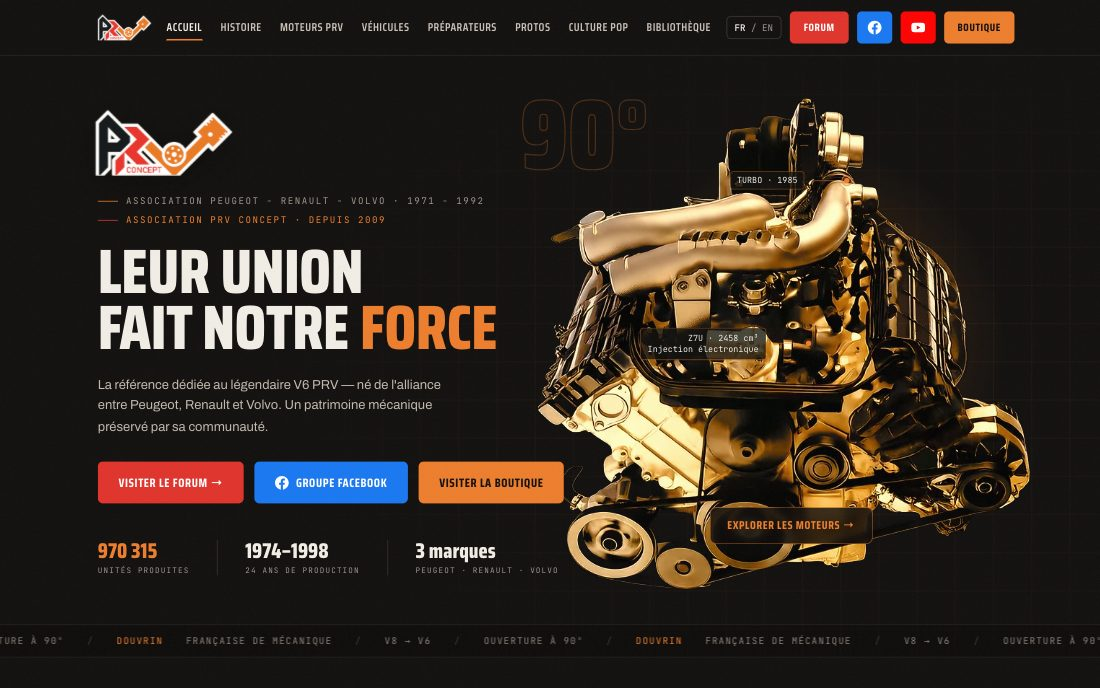
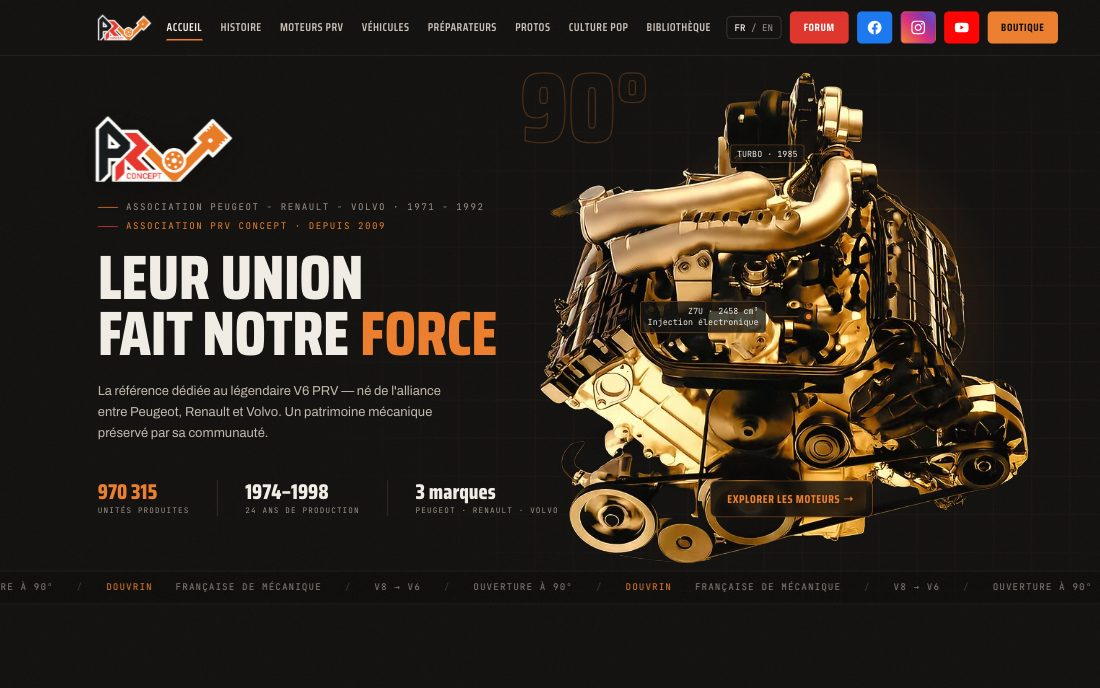
feat(services): apercu 3D interactif sur la page Services + vignette PRV maj
- Services (FR+EN) : nouvelle section #creations en bas de page — le modele
  wireframe Renault R25 interactif (model-viewer, loading=lazy) + CTA
  "Decouvrir la Conception 3D" / "Explore 3D Design" vers la page dediee
  (conservee). Script model-viewer ajoute, meta description enrichie (3D).
  Rendu verifie en WebGL reel (ANGLE/Metal) : voiture OK, 0 overflow (375/1440).
- Realisations : vignette PRV Concept rafraichie (public/prv-concept.jpg) —
  le site a evolue (nav + Instagram, hero recompose). Capturee via
  scripts/capture-realisation.mjs.
- Docs : llms.txt (Services mentionne le demonstrateur 3D) + skill a jour.

diff --git a/deploy/services.html b/deploy/services.html
@@ -4,7 +4,7 @@
 <meta charset="utf-8" />
 <meta name="viewport" content="width=device-width, initial-scale=1" />
 <title>Services — conseil technique & création web IA | NSY</title>
-<meta name="description" content="Deux offres NSY : conseil technique senior pour la finance et l'assurance, et création de sites web propulsés par l'IA. Méthode, domaines couverts, valeurs." />
+<meta name="description" content="Deux offres NSY : conseil technique senior pour la finance et l'assurance, et création de sites web propulsés par l'IA — avec 3D temps réel optimisée pour le web. Méthode, domaines couverts, valeurs." />
 <meta name="robots" content="index, follow" />
 <link rel="canonical" href="https://www.nsy.fr/services.html" />
 <link rel="alternate" hreflang="fr" href="https://www.nsy.fr/services.html" />
@@ -16,7 +16,7 @@
 <meta property="og:locale" content="fr_FR" />
 <meta property="og:url" content="https://www.nsy.fr/services.html" />
 <meta property="og:title" content="Services — conseil technique & création web IA | NSY" />
-<meta property="og:description" content="Deux offres NSY : conseil technique senior pour la finance et l'assurance, et création de sites web propulsés par l'IA. Méthode, domaines couverts, valeurs." />
+<meta property="og:description" content="Deux offres NSY : conseil technique senior pour la finance et l'assurance, et création de sites web propulsés par l'IA — avec 3D temps réel optimisée pour le web. Méthode, domaines couverts, valeurs." />
 <meta property="og:image" content="https://www.nsy.fr/public/nsy-og.jpg" />
 <meta property="og:image:width" content="1200" />
 <meta property="og:image:height" content="630" />
@@ -24,7 +24,7 @@
 
 <meta name="twitter:card" content="summary_large_image" />
 <meta name="twitter:title" content="Services — conseil technique & création web IA | NSY" />
-<meta name="twitter:description" content="Deux offres NSY : conseil technique senior pour la finance et l'assurance, et création de sites web propulsés par l'IA. Méthode, domaines couverts, valeurs." />
+<meta name="twitter:description" content="Deux offres NSY : conseil technique senior pour la finance et l'assurance, et création de sites web propulsés par l'IA — avec 3D temps réel optimisée pour le web. Méthode, domaines couverts, valeurs." />
 <meta name="twitter:image" content="https://www.nsy.fr/public/nsy-og.jpg" />
 
 <link rel="icon" type="image/png" sizes="32x32" href="public/cropped-NSY-logo-32x32.png" />
@@ -34,6 +34,7 @@
 <link rel="preconnect" href="https://fonts.gstatic.com" crossorigin />
 <link href="https://fonts.googleapis.com/css2?family=Space+Grotesk:wght@400;500;600;700&family=Manrope:wght@300;400;500;600;700&family=JetBrains+Mono:wght@400;500;700&display=swap" rel="stylesheet" />
 <link rel="stylesheet" href="css/style.css" />
+<script type="module" src="https://unpkg.com/@google/model-viewer@4.2.0/dist/model-viewer.min.js"></script>
 
 <script type="application/ld+json">
 {
@@ -266,6 +267,62 @@
         <h3 style="font-size: 22px; margin-top: 10px;">Engagement</h3>
         <p style="margin-top: 10px; font-size: 14.5px;">Présence sur site ou hybride à Paris, La Défense ou en région.</p>
       </article>
+    </div>
+  </div>
+</section>
+<section class="block" id="creations">
+  <div class="container">
+    <div class="eyebrow-row">
+      <span class="block-eyebrow">Conception 3D</span>
+      <span class="line"></span>
+      <span class="mono">04 / Savoir-faire web</span>
+    </div>
+    <div class="section-head">
+      <h2>La 3D temps réel,<br /><span class="hero-cyan">au service de vos sites web.</span></h2>
+      <p class="lede">
+        La création web NSY intègre aussi de la 3D optimisée pour le navigateur — légère, interactive, esthétique cyber. Un exemple ci-dessous : un modèle en maillage, en rotation temps réel. Cliquez-glissez pour le faire pivoter.
+      </p>
+    </div>
+
+    <div class="hobbie-showcase" style="max-width: 720px; margin: 48px auto 0;">
+      <div class="model-stage" oncontextmenu="return false">
+        <model-viewer
+          class="hobbie-model"
+          id="renault-viewer"
+          src="public/renault-wireframe.glb"
+          alt="Renault R25 Baccara 1992 — modèle 3D en maillage interactif"
+          auto-rotate
+          auto-rotate-delay="2000"
+          rotation-per-second="-20deg"
+          camera-controls
+          interaction-prompt="none"
+          disable-zoom
+          disable-pan
+          shadow-intensity="0"
+          environment-image="neutral"
+          tone-mapping="neutral"
+          exposure="1.0"
+          bounds="tight"
+          camera-orbit="-30deg 75deg auto"
+          field-of-view="auto"
+          loading="lazy"
+          reveal="auto"
+        ></model-viewer>
+        <button class="model-expand" type="button"
+                data-label-open="Agrandir le modèle" data-label-close="Réduire le modèle"
+                aria-label="Agrandir le modèle" title="Agrandir">
+          <svg class="icon-expand" viewBox="0 0 24 24" fill="none" stroke="currentColor" stroke-width="2" stroke-linecap="round" stroke-linejoin="round" aria-hidden="true"><path d="M8 3H5a2 2 0 0 0-2 2v3M21 8V5a2 2 0 0 0-2-2h-3M16 21h3a2 2 0 0 0 2-2v-3M3 16v3a2 2 0 0 0 2 2h3"/></svg>
+          <svg class="icon-collapse" viewBox="0 0 24 24" fill="none" stroke="currentColor" stroke-width="2" stroke-linecap="round" stroke-linejoin="round" aria-hidden="true"><path d="M8 3v3a2 2 0 0 1-2 2H3M21 8h-3a2 2 0 0 1-2-2V3M16 21v-3a2 2 0 0 1 2-2h3M3 16h3a2 2 0 0 1 2 2v3"/></svg>
+        </button>
+        <div class="model-hint mono">↻ Faites pivoter</div>
+      </div>
+      <div class="hobbie-caption">
+        <span class="mono">© NSY · propriété intellectuelle · reproduction interdite</span>
+      </div>
+    </div>
+
+    <div style="text-align: center; margin-top: 32px;">
+      <a class="btn btn-ghost" href="conception-3d.html">Découvrir la Conception 3D <span class="arrow">→</span></a>
     </div>
   </div>
 </section>

diff --git a/services.html b/services.html
@@ -4,7 +4,7 @@
 <meta charset="utf-8" />
 <meta name="viewport" content="width=device-width, initial-scale=1" />
 <title>Services — conseil technique & création web IA | NSY</title>
-<meta name="description" content="Deux offres NSY : conseil technique senior pour la finance et l'assurance, et création de sites web propulsés par l'IA. Méthode, domaines couverts, valeurs." />
+<meta name="description" content="Deux offres NSY : conseil technique senior pour la finance et l'assurance, et création de sites web propulsés par l'IA — avec 3D temps réel optimisée pour le web. Méthode, domaines couverts, valeurs." />
 <meta name="robots" content="index, follow" />
 <link rel="canonical" href="https://www.nsy.fr/services.html" />
 <link rel="alternate" hreflang="fr" href="https://www.nsy.fr/services.html" />
@@ -16,7 +16,7 @@
 <meta property="og:locale" content="fr_FR" />
 <meta property="og:url" content="https://www.nsy.fr/services.html" />
 <meta property="og:title" content="Services — conseil technique & création web IA | NSY" />
-<meta property="og:description" content="Deux offres NSY : conseil technique senior pour la finance et l'assurance, et création de sites web propulsés par l'IA. Méthode, domaines couverts, valeurs." />
+<meta property="og:description" content="Deux offres NSY : conseil technique senior pour la finance et l'assurance, et création de sites web propulsés par l'IA — avec 3D temps réel optimisée pour le web. Méthode, domaines couverts, valeurs." />
 <meta property="og:image" content="https://www.nsy.fr/public/nsy-og.jpg" />
 <meta property="og:image:width" content="1200" />
 <meta property="og:image:height" content="630" />
@@ -24,7 +24,7 @@
 
 <meta name="twitter:card" content="summary_large_image" />
 <meta name="twitter:title" content="Services — conseil technique & création web IA | NSY" />
-<meta name="twitter:description" content="Deux offres NSY : conseil technique senior pour la finance et l'assurance, et création de sites web propulsés par l'IA. Méthode, domaines couverts, valeurs." />
+<meta name="twitter:description" content="Deux offres NSY : conseil technique senior pour la finance et l'assurance, et création de sites web propulsés par l'IA — avec 3D temps réel optimisée pour le web. Méthode, domaines couverts, valeurs." />
 <meta name="twitter:image" content="https://www.nsy.fr/public/nsy-og.jpg" />
 
 <link rel="icon" type="image/png" sizes="32x32" href="public/cropped-NSY-logo-32x32.png" />
@@ -34,6 +34,7 @@
 <link rel="preconnect" href="https://fonts.gstatic.com" crossorigin />
 <link href="https://fonts.googleapis.com/css2?family=Space+Grotesk:wght@400;500;600;700&family=Manrope:wght@300;400;500;600;700&family=JetBrains+Mono:wght@400;500;700&display=swap" rel="stylesheet" />
 <link rel="stylesheet" href="css/style.css" />
+<script type="module" src="https://unpkg.com/@google/model-viewer@4.2.0/dist/model-viewer.min.js"></script>
 
 <script type="application/ld+json">
 {
@@ -266,6 +267,62 @@
         <h3 style="font-size: 22px; margin-top: 10px;">Engagement</h3>
         <p style="margin-top: 10px; font-size: 14.5px;">Présence sur site ou hybride à Paris, La Défense ou en région.</p>
       </article>
+    </div>
+  </div>
+</section>
+<section class="block" id="creations">
+  <div class="container">
+    <div class="eyebrow-row">
+      <span class="block-eyebrow">Conception 3D</span>
+      <span class="line"></span>
+      <span class="mono">04 / Savoir-faire web</span>
+    </div>
+    <div class="section-head">
+      <h2>La 3D temps réel,<br /><span class="hero-cyan">au service de vos sites web.</span></h2>
+      <p class="lede">
+        La création web NSY intègre aussi de la 3D optimisée pour le navigateur — légère, interactive, esthétique cyber. Un exemple ci-dessous : un modèle en maillage, en rotation temps réel. Cliquez-glissez pour le faire pivoter.
+      </p>
+    </div>
+
+    <div class="hobbie-showcase" style="max-width: 720px; margin: 48px auto 0;">
+      <div class="model-stage" oncontextmenu="return false">
+        <model-viewer
+          class="hobbie-model"
+          id="renault-viewer"
+          src="public/renault-wireframe.glb"
+          alt="Renault R25 Baccara 1992 — modèle 3D en maillage interactif"
+          auto-rotate
+          auto-rotate-delay="2000"
+          rotation-per-second="-20deg"
+          camera-controls
+          interaction-prompt="none"
+          disable-zoom
+          disable-pan
+          shadow-intensity="0"
+          environment-image="neutral"
+          tone-mapping="neutral"
+          exposure="1.0"
+          bounds="tight"
+          camera-orbit="-30deg 75deg auto"
+          field-of-view="auto"
+          loading="lazy"
+          reveal="auto"
+        ></model-viewer>
+        <button class="model-expand" type="button"
+                data-label-open="Agrandir le modèle" data-label-close="Réduire le modèle"
+                aria-label="Agrandir le modèle" title="Agrandir">
+          <svg class="icon-expand" viewBox="0 0 24 24" fill="none" stroke="currentColor" stroke-width="2" stroke-linecap="round" stroke-linejoin="round" aria-hidden="true"><path d="M8 3H5a2 2 0 0 0-2 2v3M21 8V5a2 2 0 0 0-2-2h-3M16 21h3a2 2 0 0 0 2-2v-3M3 16v3a2 2 0 0 0 2 2h3"/></svg>
+          <svg class="icon-collapse" viewBox="0 0 24 24" fill="none" stroke="currentColor" stroke-width="2" stroke-linecap="round" stroke-linejoin="round" aria-hidden="true"><path d="M8 3v3a2 2 0 0 1-2 2H3M21 8h-3a2 2 0 0 1-2-2V3M16 21v-3a2 2 0 0 1 2-2h3M3 16h3a2 2 0 0 1 2 2v3"/></svg>
+        </button>
+        <div class="model-hint mono">↻ Faites pivoter</div>
+      </div>
+      <div class="hobbie-caption">
+        <span class="mono">© NSY · propriété intellectuelle · reproduction interdite</span>
+      </div>
+    </div>
+
+    <div style="text-align: center; margin-top: 32px;">
+      <a class="btn btn-ghost" href="conception-3d.html">Découvrir la Conception 3D <span class="arrow">→</span></a>
     </div>
   </div>
 </section>

diff --git a/deploy/services-en.html b/deploy/services-en.html
@@ -4,7 +4,7 @@
 <meta charset="utf-8" />
 <meta name="viewport" content="width=device-width, initial-scale=1" />
 <title>Services — technical consulting & AI web creation | NSY</title>
-<meta name="description" content="Two NSY offerings: senior technical consulting for finance & insurance, and AI-powered website creation. Method, domains covered, values." />
+<meta name="description" content="Two NSY offerings: senior technical consulting for finance & insurance, and AI-powered website creation — with real-time 3D optimised for the web. Method, domains covered, values." />
 <meta name="robots" content="index, follow" />
 <link rel="canonical" href="https://www.nsy.fr/services-en.html" />
 <link rel="alternate" hreflang="fr" href="https://www.nsy.fr/services.html" />
@@ -16,7 +16,7 @@
 <meta property="og:locale" content="en_GB" />
 <meta property="og:url" content="https://www.nsy.fr/services-en.html" />
 <meta property="og:title" content="Services — technical consulting & AI web creation | NSY" />
-<meta property="og:description" content="Two NSY offerings: senior technical consulting for finance & insurance, and AI-powered website creation. Method, domains covered, values." />
+<meta property="og:description" content="Two NSY offerings: senior technical consulting for finance & insurance, and AI-powered website creation — with real-time 3D optimised for the web. Method, domains covered, values." />
 <meta property="og:image" content="https://www.nsy.fr/public/nsy-og.jpg" />
 <meta property="og:image:width" content="1200" />
 <meta property="og:image:height" content="630" />
@@ -24,7 +24,7 @@
 
 <meta name="twitter:card" content="summary_large_image" />
 <meta name="twitter:title" content="Services — technical consulting & AI web creation | NSY" />
-<meta name="twitter:description" content="Two NSY offerings: senior technical consulting for finance & insurance, and AI-powered website creation. Method, domains covered, values." />
+<meta name="twitter:description" content="Two NSY offerings: senior technical consulting for finance & insurance, and AI-powered website creation — with real-time 3D optimised for the web. Method, domains covered, values." />
 <meta name="twitter:image" content="https://www.nsy.fr/public/nsy-og.jpg" />
 
 <link rel="icon" type="image/png" sizes="32x32" href="public/cropped-NSY-logo-32x32.png" />
@@ -34,6 +34,7 @@
 <link rel="preconnect" href="https://fonts.gstatic.com" crossorigin />
 <link href="https://fonts.googleapis.com/css2?family=Space+Grotesk:wght@400;500;600;700&family=Manrope:wght@300;400;500;600;700&family=JetBrains+Mono:wght@400;500;700&display=swap" rel="stylesheet" />
 <link rel="stylesheet" href="css/style.css" />
+<script type="module" src="https://unpkg.com/@google/model-viewer@4.2.0/dist/model-viewer.min.js"></script>
 
 <script type="application/ld+json">
 {
@@ -264,6 +265,62 @@
         <h3 style="font-size: 22px; margin-top: 10px;">Commitment</h3>
         <p style="margin-top: 10px; font-size: 14.5px;">On-site or hybrid presence in Paris, La Défense or across regions.</p>
       </article>
+    </div>
+  </div>
+</section>
+<section class="block" id="creations">
+  <div class="container">
+    <div class="eyebrow-row">
+      <span class="block-eyebrow">3D Design</span>
+      <span class="line"></span>
+      <span class="mono">04 / Web craft</span>
+    </div>
+    <div class="section-head">
+      <h2>Real-time 3D,<br /><span class="hero-cyan">in the service of your websites.</span></h2>
+      <p class="lede">
+        NSY web creation also brings in 3D optimised for the browser — lightweight, interactive, cyber aesthetics. One example below: a wireframe model spinning in real time. Click and drag to rotate it.
+      </p>
+    </div>
+
+    <div class="hobbie-showcase" style="max-width: 720px; margin: 48px auto 0;">
+      <div class="model-stage" oncontextmenu="return false">
+        <model-viewer
+          class="hobbie-model"
+          id="renault-viewer"
+          src="public/renault-wireframe.glb"
+          alt="Renault R25 Baccara 1992 — interactive wireframe model"
+          auto-rotate
+          auto-rotate-delay="2000"
+          rotation-per-second="-20deg"
+          camera-controls
+          interaction-prompt="none"
+          disable-zoom
+          disable-pan
+          shadow-intensity="0"
+          environment-image="neutral"
+          tone-mapping="neutral"
+          exposure="1.0"
+          bounds="tight"
+          camera-orbit="-30deg 75deg auto"
+          field-of-view="auto"
+          loading="lazy"
+          reveal="auto"
+        ></model-viewer>
+        <button class="model-expand" type="button"
+                data-label-open="Enlarge the model" data-label-close="Shrink the model"
+                aria-label="Enlarge the model" title="Enlarge">
+          <svg class="icon-expand" viewBox="0 0 24 24" fill="none" stroke="currentColor" stroke-width="2" stroke-linecap="round" stroke-linejoin="round" aria-hidden="true"><path d="M8 3H5a2 2 0 0 0-2 2v3M21 8V5a2 2 0 0 0-2-2h-3M16 21h3a2 2 0 0 0 2-2v-3M3 16v3a2 2 0 0 0 2 2h3"/></svg>
+          <svg class="icon-collapse" viewBox="0 0 24 24" fill="none" stroke="currentColor" stroke-width="2" stroke-linecap="round" stroke-linejoin="round" aria-hidden="true"><path d="M8 3v3a2 2 0 0 1-2 2H3M21 8h-3a2 2 0 0 1-2-2V3M16 21v-3a2 2 0 0 1 2-2h3M3 16h3a2 2 0 0 1 2 2v3"/></svg>
+        </button>
+        <div class="model-hint mono">↻ Drag to rotate</div>
+      </div>
+      <div class="hobbie-caption">
+        <span class="mono">© NSY · intellectual property · reproduction forbidden</span>
+      </div>
+    </div>
+
+    <div style="text-align: center; margin-top: 32px;">
+      <a class="btn btn-ghost" href="3d-design.html">Explore 3D Design <span class="arrow">→</span></a>
     </div>
   </div>
 </section>

diff --git a/services-en.html b/services-en.html
@@ -4,7 +4,7 @@
 <meta charset="utf-8" />
 <meta name="viewport" content="width=device-width, initial-scale=1" />
 <title>Services — technical consulting & AI web creation | NSY</title>
-<meta name="description" content="Two NSY offerings: senior technical consulting for finance & insurance, and AI-powered website creation. Method, domains covered, values." />
+<meta name="description" content="Two NSY offerings: senior technical consulting for finance & insurance, and AI-powered website creation — with real-time 3D optimised for the web. Method, domains covered, values." />
 <meta name="robots" content="index, follow" />
 <link rel="canonical" href="https://www.nsy.fr/services-en.html" />
 <link rel="alternate" hreflang="fr" href="https://www.nsy.fr/services.html" />
@@ -16,7 +16,7 @@
 <meta property="og:locale" content="en_GB" />
 <meta property="og:url" content="https://www.nsy.fr/services-en.html" />
 <meta property="og:title" content="Services — technical consulting & AI web creation | NSY" />
-<meta property="og:description" content="Two NSY offerings: senior technical consulting for finance & insurance, and AI-powered website creation. Method, domains covered, values." />
+<meta property="og:description" content="Two NSY offerings: senior technical consulting for finance & insurance, and AI-powered website creation — with real-time 3D optimised for the web. Method, domains covered, values." />
 <meta property="og:image" content="https://www.nsy.fr/public/nsy-og.jpg" />
 <meta property="og:image:width" content="1200" />
 <meta property="og:image:height" content="630" />
@@ -24,7 +24,7 @@
 
 <meta name="twitter:card" content="summary_large_image" />
 <meta name="twitter:title" content="Services — technical consulting & AI web creation | NSY" />
-<meta name="twitter:description" content="Two NSY offerings: senior technical consulting for finance & insurance, and AI-powered website creation. Method, domains covered, values." />
+<meta name="twitter:description" content="Two NSY offerings: senior technical consulting for finance & insurance, and AI-powered website creation — with real-time 3D optimised for the web. Method, domains covered, values." />
 <meta name="twitter:image" content="https://www.nsy.fr/public/nsy-og.jpg" />
 
 <link rel="icon" type="image/png" sizes="32x32" href="public/cropped-NSY-logo-32x32.png" />
@@ -34,6 +34,7 @@
 <link rel="preconnect" href="https://fonts.gstatic.com" crossorigin />
 <link href="https://fonts.googleapis.com/css2?family=Space+Grotesk:wght@400;500;600;700&family=Manrope:wght@300;400;500;600;700&family=JetBrains+Mono:wght@400;500;700&display=swap" rel="stylesheet" />
 <link rel="stylesheet" href="css/style.css" />
+<script type="module" src="https://unpkg.com/@google/model-viewer@4.2.0/dist/model-viewer.min.js"></script>
 
 <script type="application/ld+json">
 {
@@ -264,6 +265,62 @@
         <h3 style="font-size: 22px; margin-top: 10px;">Commitment</h3>
         <p style="margin-top: 10px; font-size: 14.5px;">On-site or hybrid presence in Paris, La Défense or across regions.</p>
       </article>
+    </div>
+  </div>
+</section>
+<section class="block" id="creations">
+  <div class="container">
+    <div class="eyebrow-row">
+      <span class="block-eyebrow">3D Design</span>
+      <span class="line"></span>
+      <span class="mono">04 / Web craft</span>
+    </div>
+    <div class="section-head">
+      <h2>Real-time 3D,<br /><span class="hero-cyan">in the service of your websites.</span></h2>
+      <p class="lede">
+        NSY web creation also brings in 3D optimised for the browser — lightweight, interactive, cyber aesthetics. One example below: a wireframe model spinning in real time. Click and drag to rotate it.
+      </p>
+    </div>
+
+    <div class="hobbie-showcase" style="max-width: 720px; margin: 48px auto 0;">
+      <div class="model-stage" oncontextmenu="return false">
+        <model-viewer
+          class="hobbie-model"
+          id="renault-viewer"
+          src="public/renault-wireframe.glb"
+          alt="Renault R25 Baccara 1992 — interactive wireframe model"
+          auto-rotate
+          auto-rotate-delay="2000"
+          rotation-per-second="-20deg"
+          camera-controls
+          interaction-prompt="none"
+          disable-zoom
+          disable-pan
+          shadow-intensity="0"
+          environment-image="neutral"
+          tone-mapping="neutral"
+          exposure="1.0"
+          bounds="tight"
+          camera-orbit="-30deg 75deg auto"
+          field-of-view="auto"
+          loading="lazy"
+          reveal="auto"
+        ></model-viewer>
+        <button class="model-expand" type="button"
+                data-label-open="Enlarge the model" data-label-close="Shrink the model"
+                aria-label="Enlarge the model" title="Enlarge">
+          <svg class="icon-expand" viewBox="0 0 24 24" fill="none" stroke="currentColor" stroke-width="2" stroke-linecap="round" stroke-linejoin="round" aria-hidden="true"><path d="M8 3H5a2 2 0 0 0-2 2v3M21 8V5a2 2 0 0 0-2-2h-3M16 21h3a2 2 0 0 0 2-2v-3M3 16v3a2 2 0 0 0 2 2h3"/></svg>
+          <svg class="icon-collapse" viewBox="0 0 24 24" fill="none" stroke="currentColor" stroke-width="2" stroke-linecap="round" stroke-linejoin="round" aria-hidden="true"><path d="M8 3v3a2 2 0 0 1-2 2H3M21 8h-3a2 2 0 0 1-2-2V3M16 21v-3a2 2 0 0 1 2-2h3M3 16h3a2 2 0 0 1 2 2v3"/></svg>
+        </button>
+        <div class="model-hint mono">↻ Drag to rotate</div>
+      </div>
+      <div class="hobbie-caption">
+        <span class="mono">© NSY · intellectual property · reproduction forbidden</span>
+      </div>
+    </div>
+
+    <div style="text-align: center; margin-top: 32px;">
+      <a class="btn btn-ghost" href="3d-design.html">Explore 3D Design <span class="arrow">→</span></a>
     </div>
   </div>
 </section>
